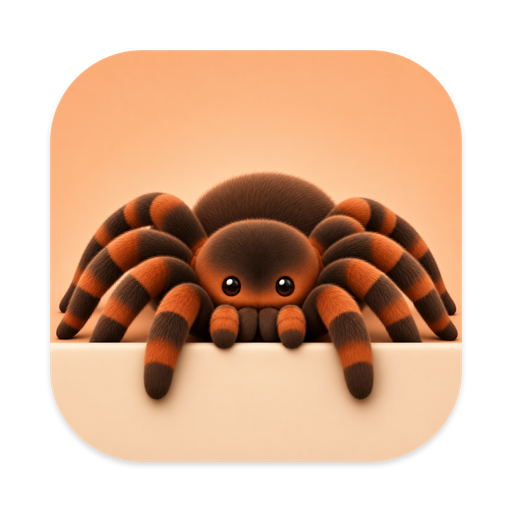
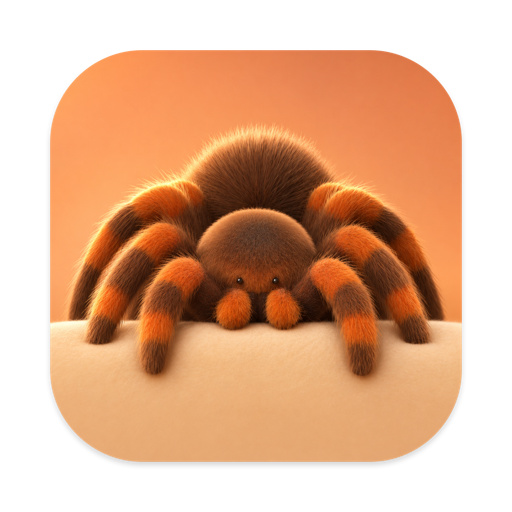
【DesktopCompanionSupport】chore：站点图标同步为应用图标 v4
- docs/assets/app-icon.png、favicon.png 换成应用工程导出的 v4 同尺寸 PNG（512、64 像素）
- README 更新图标来源说明与哈希：v4 以自有 Aster 4.0 渲染为唯一输入、OpenAI 图像工具制作；写明换图标时的同步方式

diff --git a/README.md b/README.md
@@ -44,9 +44,9 @@ python3 -B -m http.server 4179 --bind 127.0.0.1 --directory docs
 
 ## 资产与权利
 
-应用图标由作者主导设计，使用 OpenAI 图像工具制作完成；本站使用已接入应用的 PNG 导出文件，不重新生成或改写图片。页面布局、样式与简单线条图形为本项目制作。
+应用图标（v4）由作者主导设计，以自有 3D 模型 Aster 4.0 的渲染为唯一图片输入，使用 OpenAI 图像工具制作；本站直接使用应用工程导出的同尺寸 PNG（`App/Assets.xcassets/AppIcon.appiconset/` 的 `icon-512.png`、`icon-64.png`），不重新生成或改写图片。应用更换图标时同步替换这两个文件并更新下方哈希。页面布局、样式与简单线条图形为本项目制作。
 
[4 lines of base64/hex data omitted]
 
 © 2026 Chen Maoyong. 保留所有权利。公开浏览不构成对图标、品牌或其它内容的再分发授权。
